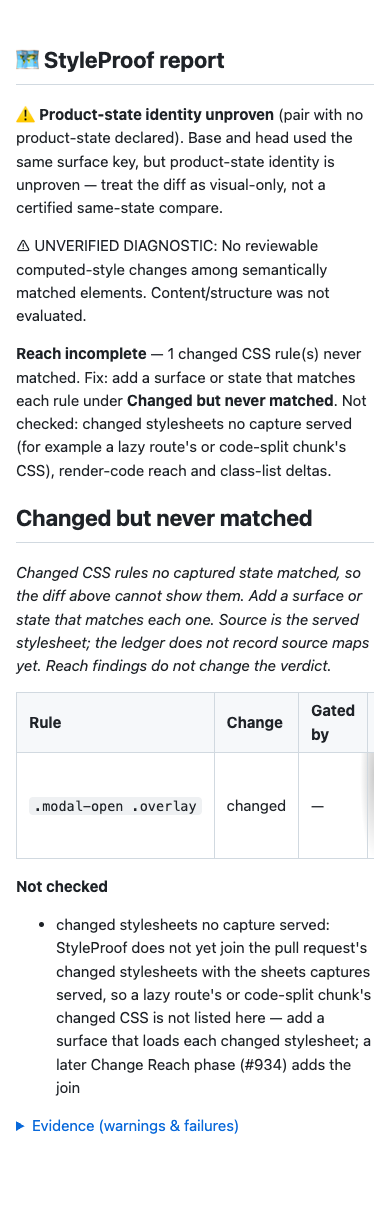
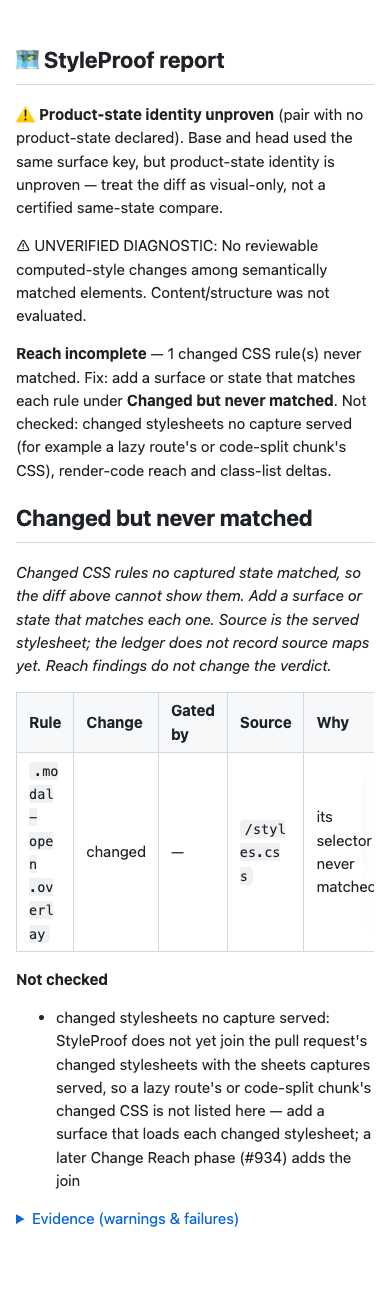
fix(report): preserve wrapping and native table focus

diff --git a/test/report-html-tables.e2e.spec.ts b/test/report-html-tables.e2e.spec.ts
@@ -2,6 +2,16 @@ import { test, expect } from '@playwright/test';
 import { renderReportHtml } from '../dist/report/html.js';
 import { assessReachMaps, reachSectionLines } from '../dist/report/reach.js';
 import { makeMap } from './helpers.mjs';
+import type { Locator } from '@playwright/test';
+
+// Main's native table display and margins; the remaining page/cell styles are unchanged.
+async function mainTableBounds(table: Locator) {
+  await table.evaluate((element) => {
+    element.classList.remove('table-scroll');
+    element.style.margin = '8px 0 16px';
+  });
+  return table.boundingBox();
+}
 
 const capture = (hash: string) => ({
   ...makeMap(),
@@ -45,20 +55,14 @@ test('wide report tables scroll by keyboard inside a 390px page', async ({ page 
   const reachTable = page.getByRole('table', { name: 'Rule, Change, Gated by, Source, Why', exact: true });
   expect(await reachTable.evaluate((element) => element.scrollWidth - element.clientWidth)).toBeGreaterThan(0);
   await page.keyboard.press('Tab');
-  await expect(tables.nth(0)).toBeFocused();
-  await page.keyboard.press('Tab');
-  await expect(tables.nth(1)).toBeFocused();
-  await page.keyboard.press('Tab');
   await expect(reachTable).toBeFocused();
   await reachTable.press('ArrowRight');
   await expect.poll(() => reachTable.evaluate((element) => element.scrollLeft)).toBeGreaterThan(0);
   expect(await page.evaluate(() => window.scrollX)).toBe(0);
   await expect(page.getByText(longValue, { exact: true })).toHaveText(longValue);
-  expect(await page.locator('.long-code').evaluate((element) => element.getBoundingClientRect().width)).toBeLessThan(
-    350,
-  );
-  const shortValue = page.locator('td code').filter({ hasText: /^\.modal-open \.overlay$/ });
-  expect(await shortValue.evaluate((element) => element.getClientRects().length)).toBe(1);
+  expect(
+    await page.getByText(longValue, { exact: true }).evaluate((element) => element.getClientRects().length),
+  ).toBeGreaterThan(1);
 });
 
 for (const width of [768, 1440]) {
@@ -68,11 +72,70 @@ for (const width of [768, 1440]) {
     const table = page.getByRole('table');
     const bounds = await table.boundingBox();
     expect(await table.evaluate((element) => element.scrollWidth - element.clientWidth)).toBe(0);
-    // Restore the original native table display and margins for comparison.
-    await table.evaluate((element) => {
-      element.classList.remove('table-scroll');
-      element.style.margin = '8px 0 16px';
-    });
-    expect(await table.boundingBox()).toEqual(bounds);
+    expect(await mainTableBounds(table)).toEqual(bounds);
   });
 }
+
+const spacedValues = [
+  {
+    property: 'box-shadow',
+    value: Array.from({ length: 12 }, (_, index) => `${index}px 2px 4px rgba(0, 0, 0, 0.2)`).join(', '),
+  },
+  { property: 'font-family', value: Array.from({ length: 16 }, (_, index) => `"Example Family ${index}"`).join(', ') },
+];
+
+for (const width of [768, 1440]) {
+  for (const { property, value } of spacedValues) {
+    test(`spaced ${property} values retain main's wrapping at ${width}px`, async ({ page }) => {
+      await page.setViewportSize({ width, height: 900 });
+      await page.setContent(
+        renderReportHtml(
+          `| Property | Before | After |\n| --- | --- | --- |\n| \`${property}\` | \`${value}\` | \`${value}\` |`,
+        ),
+      );
+      const table = page.getByRole('table');
+      const bounds = await table.boundingBox();
+      const overflow = await table.evaluate((element) => element.scrollWidth - element.clientWidth);
+      const native = await mainTableBounds(table);
+      expect(overflow).toBe(0);
+      expect(bounds).toEqual(native);
+    });
+  }
+}
+
+test('a short escaped selector keeps main’s inline height at 1440px', async ({ page }) => {
+  const selector = 'a>b>c>d>e>f>g>h>i>j>k>l>m>n>o';
+  await page.setViewportSize({ width: 1440, height: 900 });
+  await page.setContent(
+    renderReportHtml(
+      `| Property | Before | After |\n| --- | --- | --- |\n| selector | \`${selector}\` | \`${selector}\` |`,
+    ),
+  );
+  const table = page.getByRole('table');
+  const bounds = await table.boundingBox();
+  expect(await mainTableBounds(table)).toEqual(bounds);
+});
+
+test('fitting tables are skipped by Tab while an overflowing table receives native focus', async ({ page }) => {
+  await page.setViewportSize({ width: 1440, height: 900 });
+  await page.setContent(renderReportHtml(markdown + '\n\n[After tables](#after)'));
+  await page.keyboard.press('Tab');
+  await expect(page.getByRole('link', { name: 'After tables' })).toBeFocused();
+  await page.setViewportSize({ width: 390, height: 900 });
+  await page.setContent(renderReportHtml(markdown + '\n\n[After tables](#after)'));
+  await page.keyboard.press('Tab');
+  await expect(page.getByRole('table', { name: 'Rule, Change, Gated by, Source, Why' })).toBeFocused();
+});
+
+test('code-like text inside link and image attributes stays intact', async ({ page }) => {
+  const value = 'a'.repeat(70);
+  await page.setContent(
+    renderReportHtml(
+      `| Property | Value |\n| --- | --- |\n| link | [x](\`${value}\`) |\n| image | ![\`${value}\`](crops/a.png) |`,
+    ),
+  );
+  const link = page.getByRole('link', { name: 'x' });
+  await expect(link).toHaveAttribute('href', `<code>${value}</code>`);
+  expect(await link.evaluate((element) => element.attributes.length)).toBe(1);
+  await expect(page.locator('img')).toHaveAttribute('alt', `<code>${value}</code>`);
+});

diff --git a/docs/demo/report.html b/docs/demo/report.html
@@ -22,9 +22,7 @@
     background-repeat: no-repeat;
     background-attachment: local, local, scroll, scroll; }
   .table-scroll:focus-visible { outline: 2px solid oklch(0.55 0.18 255); outline-offset: 2px; }
-  .table-scroll code { white-space: nowrap; }
-  .table-scroll .long-code { display: inline-block; inline-size: max-content;
-    max-inline-size: 40ch; overflow-wrap: anywhere; white-space: normal; }
+  .table-scroll code { overflow-wrap: anywhere; }
   table { border-collapse: collapse; }
   th, td { border: 1px solid #d1d9e0; padding: 6px 12px; text-align: left; }
   th { background: #f6f8fa; }
@@ -70,7 +68,7 @@
 <summary>Show the property change</summary>
 <p><strong>Caret</strong> <code>span.caret</code></p>
 <p>Style:</p>
-<table class="table-scroll" role="table" tabindex="0" aria-label="Property, Before, After"><thead><tr><th>Property</th><th>Before</th><th>After</th></tr></thead><tbody><tr><td><code>color</code></td><td><code>#9ca3af</code></td><td><code>#2563eb</code></td></tr></tbody></table>
+<table class="table-scroll" role="table"><thead><tr><th>Property</th><th>Before</th><th>After</th></tr></thead><tbody><tr><td><code>color</code></td><td><code>#9ca3af</code></td><td><code>#2563eb</code></td></tr></tbody></table>
 </details>
 <h3><code>button.cta</code> · 1 element restyled</h3>
 <p><em>home @ 900</em></p>
@@ -86,7 +84,7 @@
 <summary>Show the property change</summary>
 <p><strong>Cta</strong> <code>button.cta</code></p>
 <p>Style:</p>
-<table class="table-scroll" role="table" tabindex="0" aria-label="Property, Before, After"><thead><tr><th>Property</th><th>Before</th><th>After</th></tr></thead><tbody><tr><td><code>background-color</code></td><td><code>#2563eb</code></td><td><code>#dc2626</code></td></tr></tbody></table>
+<table class="table-scroll" role="table"><thead><tr><th>Property</th><th>Before</th><th>After</th></tr></thead><tbody><tr><td><code>background-color</code></td><td><code>#2563eb</code></td><td><code>#dc2626</code></td></tr></tbody></table>
 </details>
 <h3><code>aside.off-canvas-status</code> · 1 element restyled</h3>
 <p><em>home @ 900</em></p>
@@ -96,7 +94,7 @@
 <summary>Show the property change</summary>
 <p><strong>Off canvas status</strong> <code>aside.off-canvas-status</code></p>
 <p>Style:</p>
-<table class="table-scroll" role="table" tabindex="0" aria-label="Property, Before, After"><thead><tr><th>Property</th><th>Before</th><th>After</th></tr></thead><tbody><tr><td><code>opacity</code></td><td><code>0.85</code></td><td><code>1</code></td></tr></tbody></table>
+<table class="table-scroll" role="table"><thead><tr><th>Property</th><th>Before</th><th>After</th></tr></thead><tbody><tr><td><code>opacity</code></td><td><code>0.85</code></td><td><code>1</code></td></tr></tbody></table>
 </details>
 <hr>
 <h2>📝 Content and structure changes</h2>

diff --git a/src/report/html.ts b/src/report/html.ts
@@ -128,16 +128,12 @@ function renderTable(rows: string[]): string {
   const isSeparator = (cells: string[]) => cells.length > 0 && cells.every((cell) => TABLE_SEPARATOR_CELL.test(cell));
   const [header, ...rest] = rows.map(cellsOf);
   const body = rest.filter((cells) => !isSeparator(cells));
-  // Leave short spans inline; only long unbroken values need a bounded box to wrap within.
-  const cellHtml = (cell: string) =>
-    inline(cell).replace(/<code>([^<]*)<\/code>/g, (span, value: string) =>
-      /\S{61}/.test(value) ? `<code class="long-code">${value}</code>` : span,
-    );
   const thead = `<thead><tr>${header.map((cell) => `<th>${inline(cell)}</th>`).join('')}</tr></thead>`;
   const tbody = body.length
-    ? `<tbody>${body.map((cells) => `<tr>${cells.map((cell) => `<td>${cellHtml(cell)}</td>`).join('')}</tr>`).join('')}</tbody>`
+    ? `<tbody>${body.map((cells) => `<tr>${cells.map((cell) => `<td>${inline(cell)}</td>`).join('')}</tr>`).join('')}</tbody>`
     : '';
-  return `<table class="table-scroll" role="table" tabindex="0" aria-label="${escapeHtml(header.join(', '))}">${thead}${tbody}</table>`;
+  const label = header.length >= 4 ? ` aria-label="${escapeHtml(header.join(', '))}"` : '';
+  return `<table class="table-scroll" role="table"${label}>${thead}${tbody}</table>`;
 }
 
 type Block = { html: string; next: number };
@@ -233,9 +229,7 @@ export function renderReportHtml(markdown: string, options?: { outDir: string; m
     background-repeat: no-repeat;
     background-attachment: local, local, scroll, scroll; }
   .table-scroll:focus-visible { outline: 2px solid oklch(0.55 0.18 255); outline-offset: 2px; }
-  .table-scroll code { white-space: nowrap; }
-  .table-scroll .long-code { display: inline-block; inline-size: max-content;
-    max-inline-size: 40ch; overflow-wrap: anywhere; white-space: normal; }
+  .table-scroll code { overflow-wrap: anywhere; }
   table { border-collapse: collapse; }
   th, td { border: 1px solid #d1d9e0; padding: 6px 12px; text-align: left; }
   th { background: #f6f8fa; }

diff --git a/CHANGELOG.md b/CHANGELOG.md
@@ -149,6 +149,7 @@ this project adheres to [Semantic Versioning](https://semver.org/spec/v2.0.0.htm
   The residual read-to-write window remains because GitHub has no compare-and-set (#1296).
 
 - HTML report tables scroll in their own keyboard-accessible boxes on narrow screens, with scroll-edge shadows and bounded long code values.
+- HTML report tables scroll in their own boxes on narrow screens, with scroll-edge shadows, natural code wrapping and native overflow-only keyboard focus in Chromium and Firefox.
 - Capture and CI browser installation prefer the project's Playwright over a global copy on PATH (#1259).
 - Config-loading children suppress Node's generated-config module-type and type-stripping
   warnings in CommonJS projects while preserving other warnings and user `NODE_OPTIONS` (#1258).
